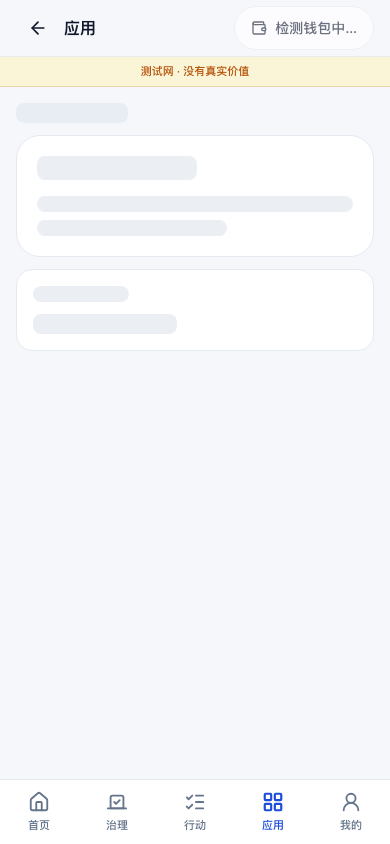
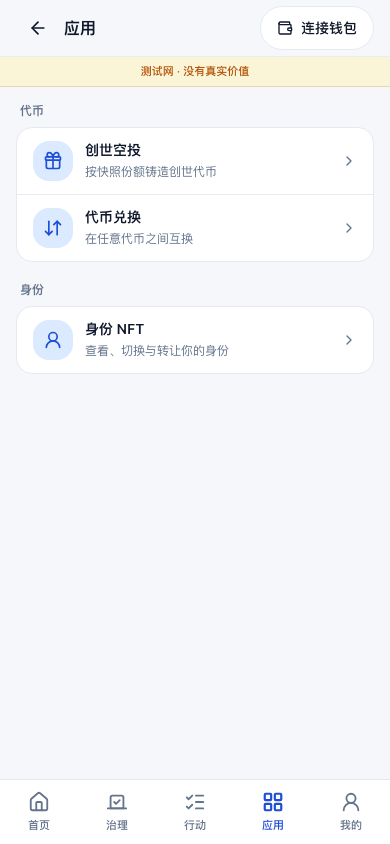
test(e2e): 等待应用目录内容后再截图

diff --git a/e2e/apps.spec.ts b/e2e/apps.spec.ts
@@ -65,6 +65,15 @@ test.describe('应用目录', () => {
   test('captures the 390×844 apps catalog screenshot', async ({ page }) => {
     await page.goto(`/apps${QUERY}`);
     await expect(page).toHaveTitle(`应用 · ${SYMBOL}`, { timeout: 15_000 });
+    // The header renders before the lazy route chunk: wait for real rows, not
+    // the route-fallback skeleton, before taking the acceptance screenshot.
+    await expect(page.getByRole('link', { name: /创世空投/ })).toBeVisible({ timeout: 15_000 });
+    await expect(page.getByText('按快照份额铸造创世代币')).toBeVisible();
+    // Settle the injected-wallet probe so the pill does not read 检测钱包中….
+    // The accessible name is always 连接钱包, so assert the visible label too.
+    await expect(page.getByRole('button', { name: '连接钱包' }).first()).toHaveText('连接钱包', {
+      timeout: 15_000,
+    });
     // No filled action belongs on a navigation-only page.
     await expect(page.locator('main button')).toHaveCount(0);
 
